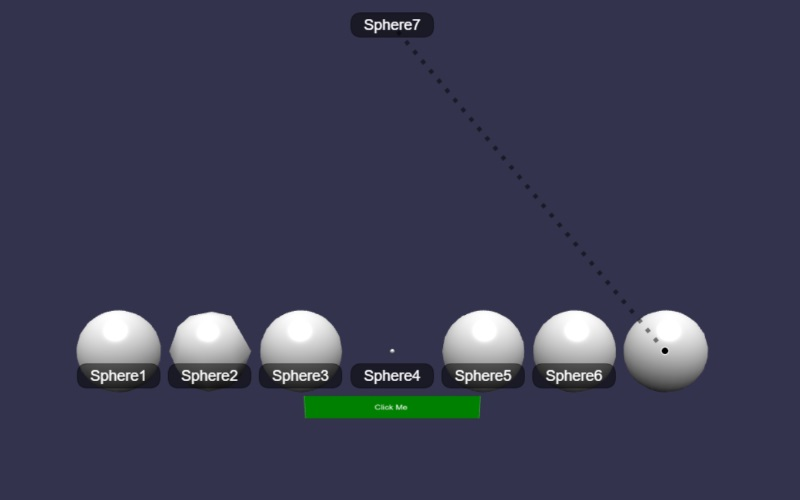
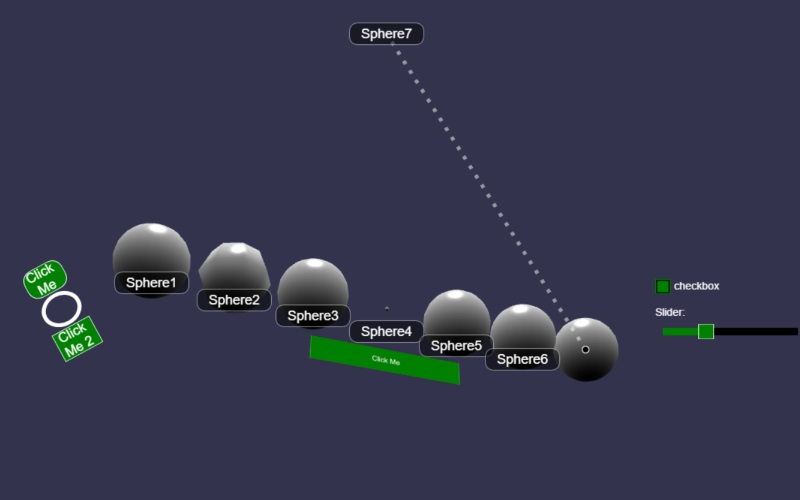
better GUI demo

Changed region(s): [[0.0312, 0.45, 1.0, 0.84], [0.4375, 0.0, 0.5625, 0.09], [0.5, 0.12, 0.5312, 0.15]]

diff --git a/Demos/GUI/gui.js b/Demos/GUI/gui.js
@@ -146,5 +146,46 @@
         panel.rotation += 0.01;
     });
 
+    // Another GUI on the right
+  var advancedTexture = BABYLON.GUI.AdvancedDynamicTexture.CreateFullscreenUI("UI");
+    advancedTexture.layer.layerMask = 2;
+
+    var panel3 = new BABYLON.GUI.StackPanel();
+    panel3.width = "220px";
+    panel3.fontSize = "14px";
+    panel3.horizontalAlignment = BABYLON.GUI.Control.HORIZONTAL_ALIGNMENT_RIGHT;
+    panel3.verticalAlignment = BABYLON.GUI.Control.VERTICAL_ALIGNMENT_CENTER;
+    advancedTexture.addControl(panel3);
+
+    var checkbox = new BABYLON.GUI.Checkbox();
+    checkbox.width = "20px";
+    checkbox.height = "20px";
+    checkbox.isChecked = true;
+    checkbox.color = "green";
+
+    var panelForCheckbox = BABYLON.GUI.Control.AddHeader(checkbox, "checkbox", "180px", { isHorizontal: true, controlFirst: true});
+    panelForCheckbox.color = "white";
+    panelForCheckbox.height = "20px";
+    panelForCheckbox.horizontalAlignment = BABYLON.GUI.Control.HORIZONTAL_ALIGNMENT_LEFT;
+    panel3.addControl(panelForCheckbox); 
+
+    var header = new BABYLON.GUI.TextBlock();
+    header.text = "Slider:";
+    header.height = "40px";
+    header.color = "white";
+    header.textHorizontalAlignment = BABYLON.GUI.Control.HORIZONTAL_ALIGNMENT_LEFT;
+    header.marginTop = "10px";
+    panel3.addControl(header); 
+
+    var slider = new BABYLON.GUI.Slider();
+    slider.horizontalAlignment = BABYLON.GUI.Control.HORIZONTAL_ALIGNMENT_LEFT;
+    slider.minimum = 0;
+    slider.maximum = 2 * Math.PI;
+    slider.color = "green";
+    slider.value = 0;
+    slider.height = "20px";
+    slider.width = "200px";
+    panel3.addControl(slider);    
+
     return scene;
 };
